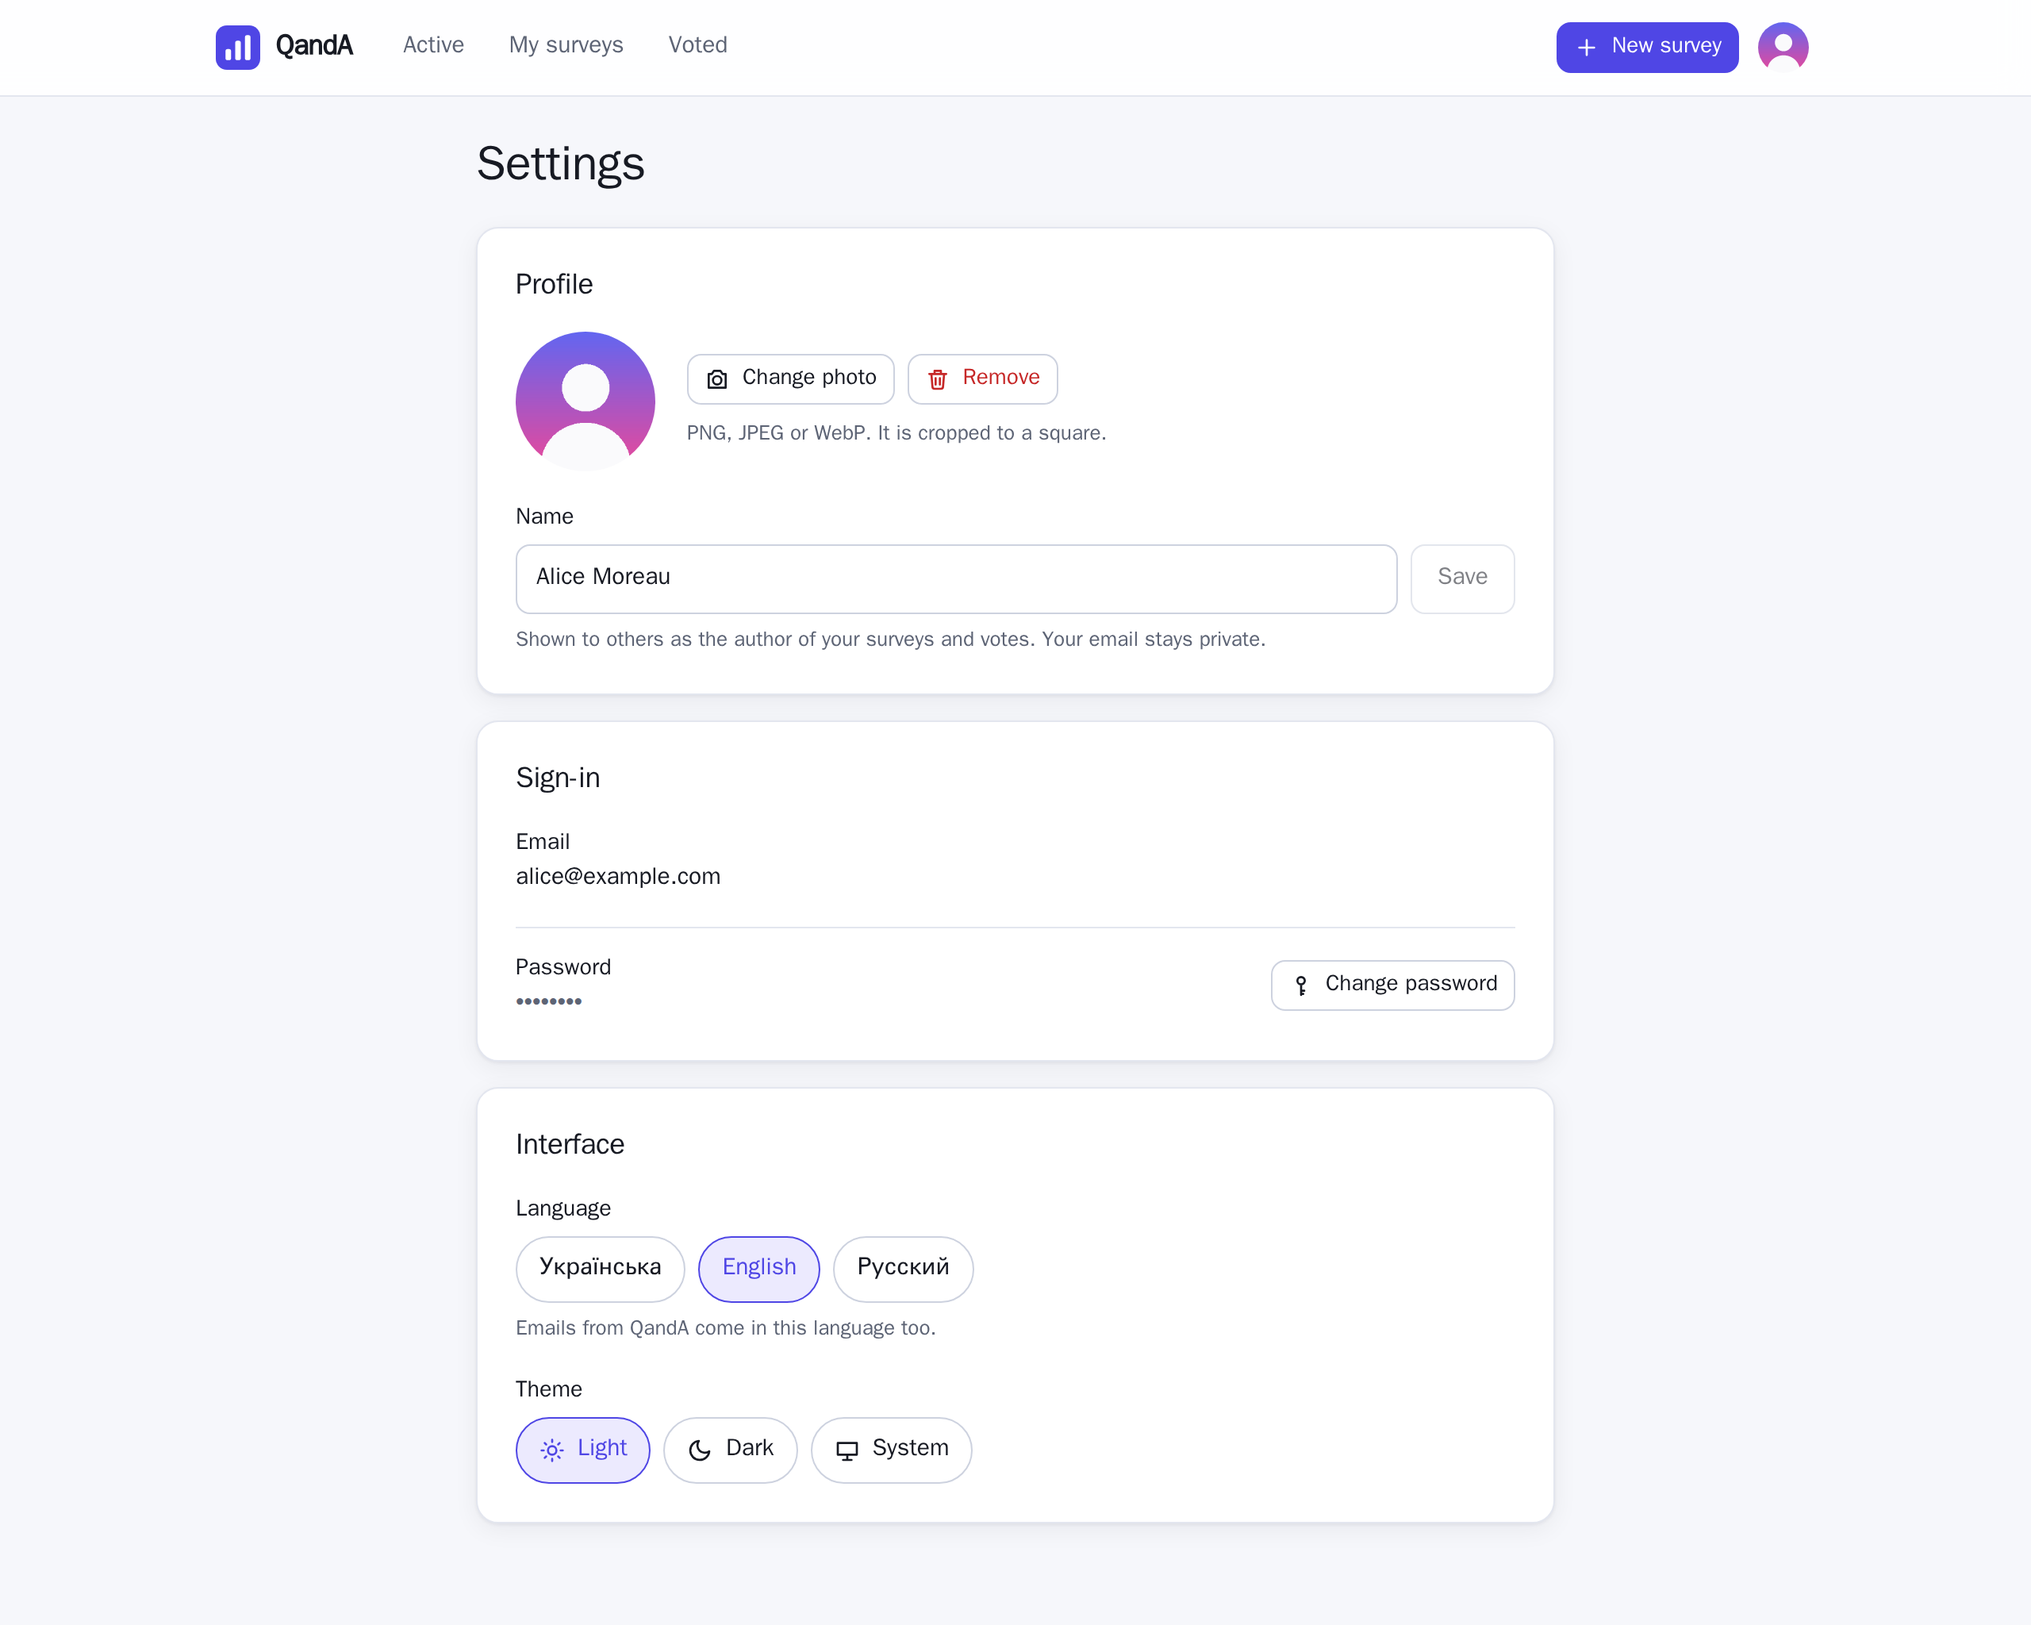
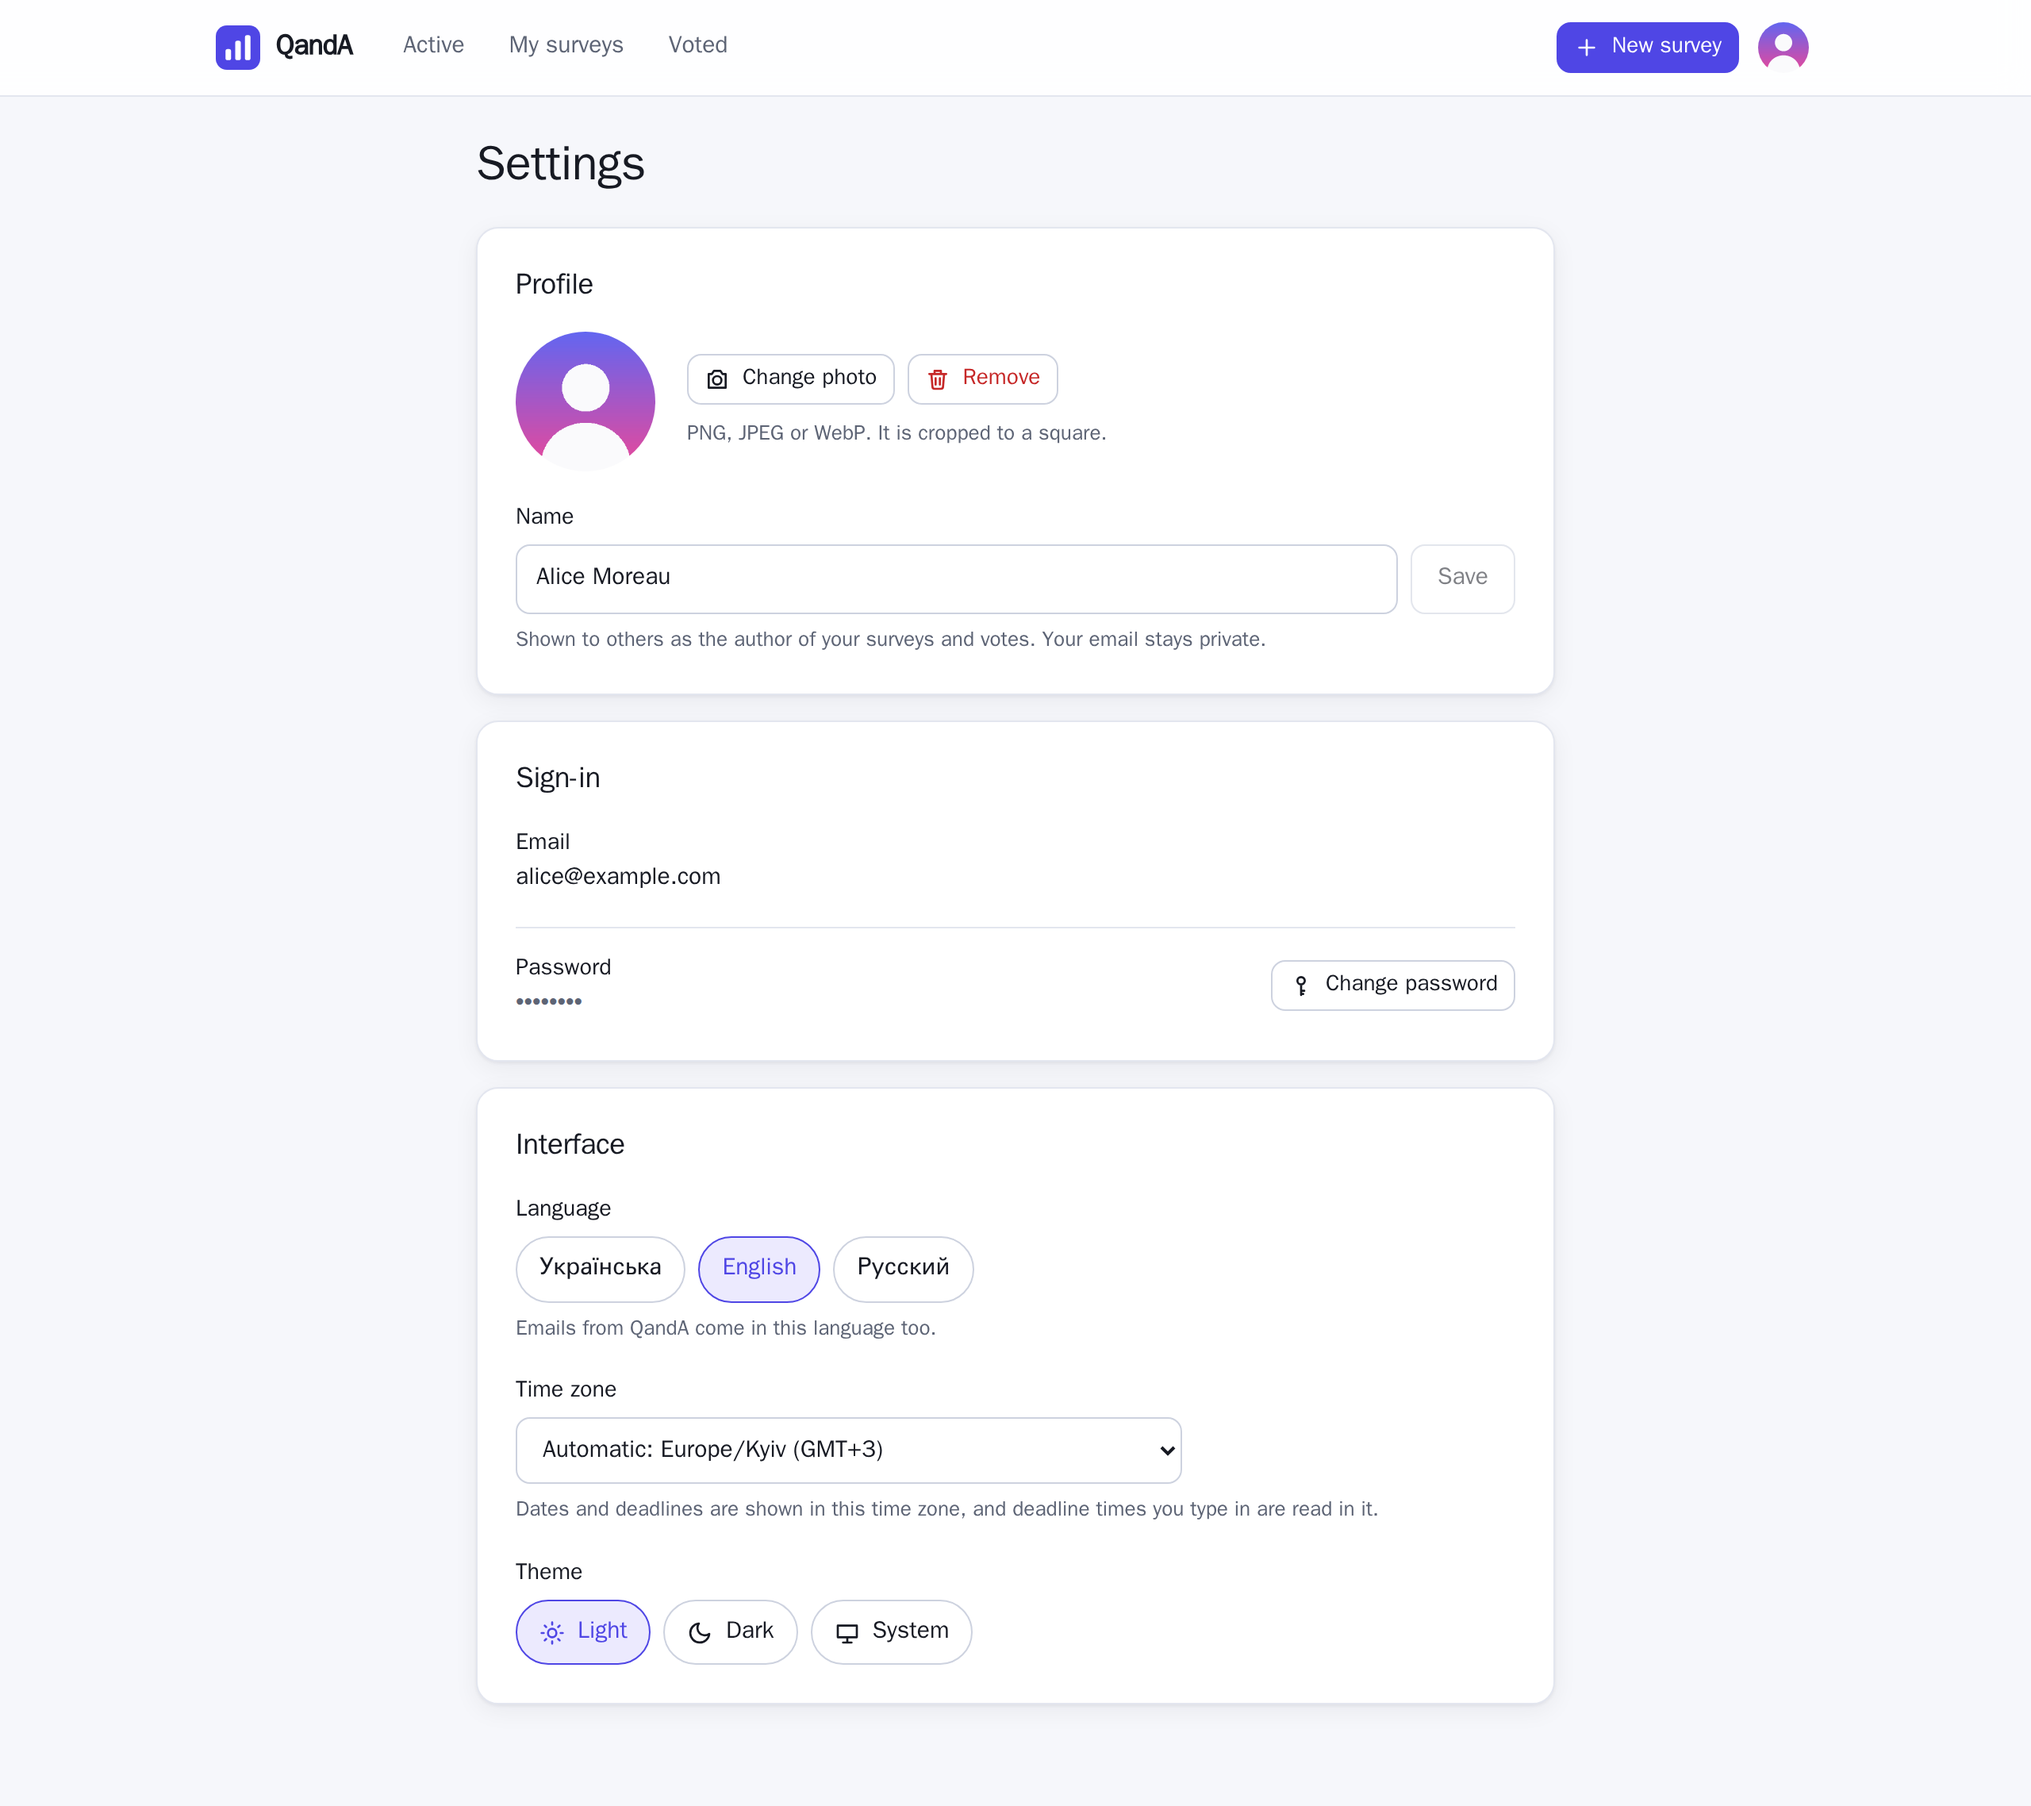
README: settings screenshot with the time zone picker
Retake the settings screenshot so it shows the new time zone setting,
and mention time zones in the feature list.

diff --git a/README.md b/README.md
@@ -12,7 +12,7 @@ The interface is available in Ukrainian, English and Russian, with light, dark a
 |---|---|
 | ![The author's view of a survey: countdown, results and who voted](docs/screenshots/survey-author.png)<br>**The author's view:** countdown, results, who voted for what | ![What a guest sees after following a shared link](docs/screenshots/guest.png)<br>**Shared link, as a guest:** results are public, voting needs an account |
 | ![Creating a survey](docs/screenshots/new-survey.png)<br>**New survey:** options, vote limit, deadline, participant options | ![Voting in dark mode](docs/screenshots/survey-dark.png)<br>**Dark theme:** a participant who already voted |
-| ![Account settings](docs/screenshots/settings.png)<br>**Settings:** photo, name, password, language, theme | ![Share dialog](docs/screenshots/share.png)<br>**Sharing:** the link with a copy button |
+| ![Account settings](docs/screenshots/settings.png)<br>**Settings:** photo, name, password, language, time zone, theme | ![Share dialog](docs/screenshots/share.png)<br>**Sharing:** the link with a copy button |
 
 <p align="center"><img src="docs/screenshots/mobile.png" width="320" alt="Voting on a phone"><br><b>On a phone</b></p>
 
@@ -23,11 +23,11 @@ The interface is available in Ukrainian, English and Russian, with light, dark a
 - **Voting rules set by the author:**
   - how many options a participant may pick (one by default);
   - whether participants may add their own options, and how many each;
-  - an optional deadline: a date, or a date and time. A date alone means the end of that day. A live countdown shows the time left, and voting closes the moment it runs out.
+  - an optional deadline: a date, or a date and time. A date alone means the end of that day. A live countdown shows the time left, and voting closes the moment it runs out. Deadlines are shown with their UTC offset ("Oct 22, 11:59 PM GMT+3") in each viewer's own time zone.
 - **Changing your mind.** Until the deadline, a participant can change or withdraw their vote. A new option can be added and voted for in one step.
 - **Results.** Everyone sees the counts and percentages. Only the author sees who voted for what, and when.
 - **Lists.** Active surveys, your own surveys (filter: drafts, active, closed) and the surveys you voted in.
-- **Accounts.** Sign up with an email, a display name and a password. The display name and an optional profile photo are what other people see; the email stays private. In the settings you can change the name, photo, password, language and theme.
+- **Accounts.** Sign up with an email, a display name and a password. The display name and an optional profile photo are what other people see; the email stays private. In the settings you can change the name, photo, password, language, time zone (the device's by default) and theme.
 - **Email (optional).** With an SMTP server configured, new accounts confirm their address before voting, forgotten passwords can be reset by email, and password changes are notified. Without one, everything else works the same: no confirmation is needed and password reset is hidden.
 
 ## Run a released version
